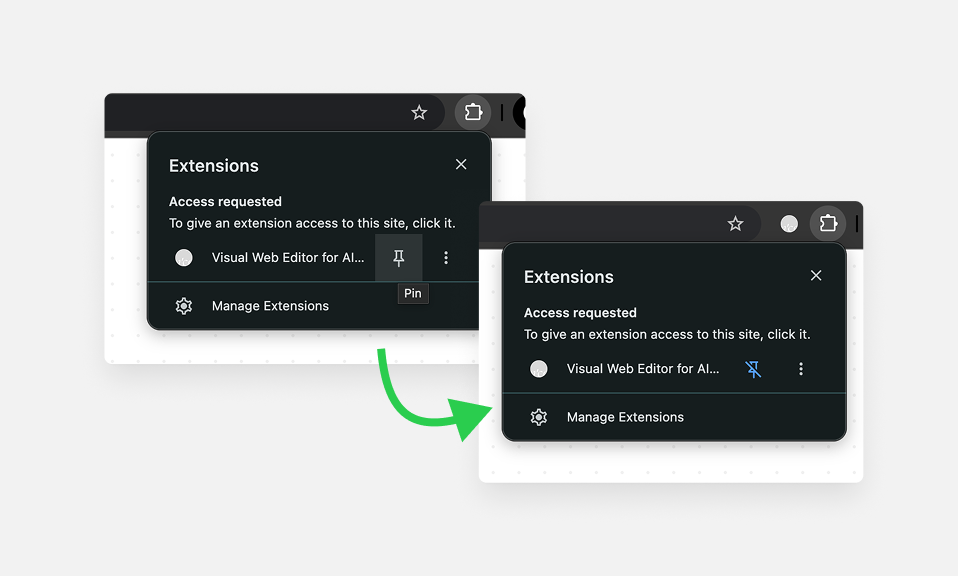
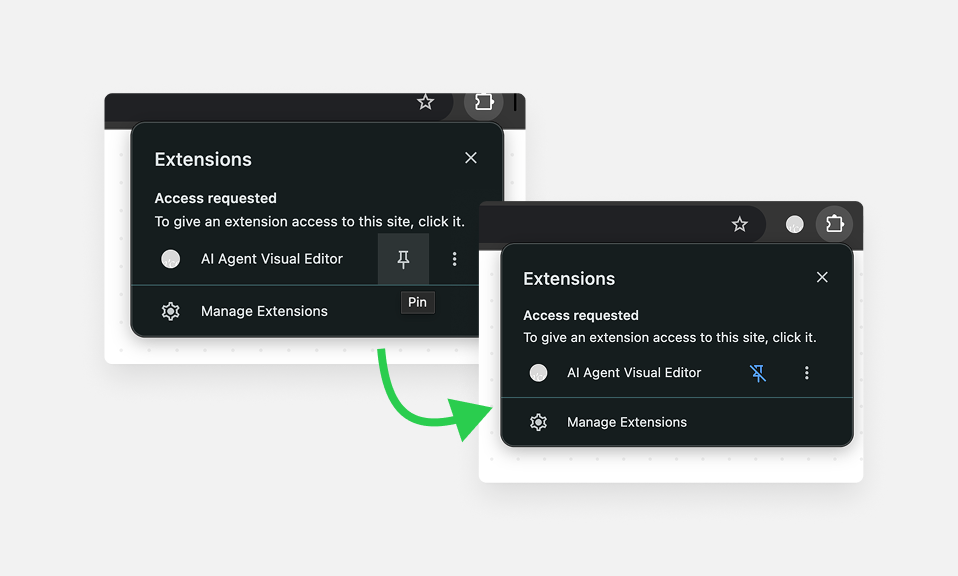
feat(guide): one block for step 2, trim step 3, add two screenshots
STEP 2 is now a single bordered block holding the agent picker, the prompt
and the copy button, with the 'Easiest way' sentence lifted out above it and
called out with a rule. Those three were reading as unrelated things stacked
up - a row of pills, a button, then a code sample - when they are three parts
of one action. The copy button also moves below the prompt: above, it offered
to copy something the reader had not seen yet.

STEP 3 was too wordy. I had replaced a single thin sentence with three
paragraphs, which overcorrected. Down to two short ones, keeping the point
that matters - without build-time tags the agent gets a selector and guesses,
and on repeated components it guesses wrong - and the reassurance that it is
a dev dependency only. Roughly 110 words to 55.

IMAGES. The step 1 pin screenshot is replaced: the old one still showed the
pre-rename product name in Chrome's extension list. Same filename, so the
step picks it up unchanged.

A new screenshot shows the popup toggling from Off to On with the toolbar
icon going grey to green. It appears twice, in 'Switch it on' and in 'Activate
the editor', because those two steps describe the same action from different
tabs - a reader arriving at either should see it. Both flattened to remove
the alpha channel, and stripped of EXIF.

Changed region(s): [[0.0908, 0.2188, 0.9081, 0.7812], [0.4238, 0.1562, 0.5752, 0.3438]]

diff --git a/examples/demo-app/src/components/SetupGuide.tsx b/examples/demo-app/src/components/SetupGuide.tsx
@@ -190,21 +190,43 @@ function ConnectYourAgent() {
         launches it, and it also serves the extension over WebSocket.
       </p>
 
-      {/* Pills on a tinted strip, not underlined text.
-          These were set as plain body text with a 1px underline on the active
-          one, which made a control the reader has to act on look like prose
-          they can skim past — and the whole step is wrong if the wrong agent
-          is selected, because the config below changes with it. A label, a
-          surface and a filled active state make it read as a choice. */}
+      {/* Call-out, outside the block below and above it.
+          This is the instruction; the block is the thing being instructed
+          about. Keeping it inside made it read as a caption on the code. */}
+      <p
+        style={{
+          marginTop: 'var(--space-5)',
+          paddingLeft: 'var(--space-4)',
+          borderLeft: '2px solid var(--color-ink)',
+          fontSize: 'var(--text-body-sm)',
+          color: 'var(--color-ink)',
+        }}
+      >
+        <strong style={{ fontWeight: 'var(--fw-book)' }}>Easiest way</strong> — let{' '}
+        {provider.name} set itself up. Pick your agent, then copy the prompt and paste it in.
+      </p>
+
+      {/* One block: picker, prompt, copy button.
+          These are three parts of a single action, and they were reading as
+          three unrelated things stacked up — a row of text links, a button,
+          then a code sample. Sharing one surface makes the sequence legible,
+          and the copy button sits under the text it copies rather than above
+          it, where it referred to something the reader had not seen yet. */}
       <div
         style={{
           marginTop: 'var(--space-4)',
-          padding: 'var(--space-4)',
-          background: 'var(--color-surface)',
           border: '1px solid var(--color-border)',
           borderRadius: 'var(--radius-sm, 4px)',
+          overflow: 'hidden',
         }}
       >
+        <div
+          style={{
+            padding: 'var(--space-4)',
+            background: 'var(--color-surface)',
+            borderBottom: '1px solid var(--color-border)',
+          }}
+        >
         <div
           id="agent-picker-label"
           style={{
@@ -255,14 +277,16 @@ function ConnectYourAgent() {
             </button>
           );
         })}
-      </div>
-      </div>
+        </div>
+        </div>
 
-      <p style={{ fontSize: 'var(--text-body-sm)', color: 'var(--color-secondary)' }}>
-        Easiest way — let {provider.name} set itself up. Copy this and paste it in:
-      </p>
-      <CopyPromptButton text={mcpPrompt(provider)} />
-      <Code>{mcpPrompt(provider)}</Code>
+        <div style={{ padding: 'var(--space-4)' }}>
+          <Code>{mcpPrompt(provider)}</Code>
+          <div style={{ marginTop: 'var(--space-4)' }}>
+            <CopyPromptButton text={mcpPrompt(provider)} />
+          </div>
+        </div>
+      </div>
 
       <p
         style={{
@@ -345,21 +369,14 @@ const STEPS: Step[] = [
       <>
         <p style={{ fontSize: 'var(--text-body-sm)', color: 'var(--color-secondary)' }}>
           <strong style={{ color: 'var(--color-ink)', fontWeight: 'var(--fw-book)' }}>
-            This is the step that connects your edits to your code.
+            This is what connects your edits to your code.
           </strong>{' '}
-          The plugin tags every element at build time with the file and line it came from. Without
-          those tags the editor still works — you can select, adjust and queue — but your agent
-          receives a CSS selector and has to go looking for what it belongs to. It will guess, and
-          on a codebase with repeated components it will sometimes guess wrong.
+          It tags elements at build time with their file and line, so a change arrives naming the
+          exact component. Without it your agent gets a CSS selector and has to guess — and on
+          repeated components it will sometimes guess wrong.
         </p>
         <p style={{ fontSize: 'var(--text-body-sm)', color: 'var(--color-secondary)' }}>
-          With the plugin, a change arrives naming the exact component and line, so the edit lands
-          where you meant it. Recommended rather than required: the editor runs without it, but
-          skipping it is the difference between an agent that knows what you clicked and one that
-          is inferring.
-        </p>
-        <p style={{ fontSize: 'var(--text-body-sm)', color: 'var(--color-secondary)' }}>
-          It is a dev dependency and does nothing in a production build. Install it in your project:
+          Dev dependency only; it does nothing in a production build.
         </p>
         <Code>{`npm install --save-dev @nco-studio/web-editor-plugin`}</Code>
         <p style={{ fontSize: 'var(--text-body-sm)', color: 'var(--color-secondary)' }}>
@@ -384,6 +401,20 @@ const STEPS: Step[] = [
           <code style={{ fontFamily: 'var(--font-mono)' }}>ws://localhost</code> — a connection that goes no further than your own machine.
           A banner appears only if the extension and server versions disagree.
         </p>
+        <figure style={{ margin: 'var(--space-4) 0 0' }}>
+          <img
+            src={`${import.meta.env.BASE_URL}images/web-editor-example-switch-on.png`}
+            alt="The extension popup before and after: Extension toggled from Off to On, and the toolbar icon turning from grey to green"
+            width={958}
+            height={576}
+            style={{
+              display: 'block',
+              width: '100%',
+              height: 'auto',
+              borderRadius: 'var(--radius-sm, 4px)',
+            }}
+          />
+        </figure>
       </>
     ),
   },

diff --git a/examples/demo-app/src/components/HowToUse.tsx b/examples/demo-app/src/components/HowToUse.tsx
@@ -52,11 +52,27 @@ re-check the queue before you go idle.`}</Code>
   {
     title: 'Activate the editor',
     body: (
-      <p style={{ fontSize: 'var(--text-body-sm)', color: 'var(--color-secondary)' }}>
-        On your localhost page, click the pinned icon and click <strong>Extension</strong> in the popup to
-        toggle it <strong>On</strong>. The editor toolbar appears — drag the grip to move it, collapse it to
-        browse the page normally, press <kbd style={{ fontFamily: 'var(--font-mono)', fontSize: 'var(--text-caption)', border: '1px solid var(--color-border)', padding: '0 4px' }}>ESC</kbd> to exit.
-      </p>
+      <>
+        <p style={{ fontSize: 'var(--text-body-sm)', color: 'var(--color-secondary)' }}>
+          On your localhost page, click the pinned icon and click <strong>Extension</strong> in the popup to
+          toggle it <strong>On</strong>. The editor toolbar appears — drag the grip to move it, collapse it to
+          browse the page normally, press <kbd style={{ fontFamily: 'var(--font-mono)', fontSize: 'var(--text-caption)', border: '1px solid var(--color-border)', padding: '0 4px' }}>ESC</kbd> to exit.
+        </p>
+        <figure style={{ margin: 'var(--space-4) 0 0' }}>
+          <img
+            src={`${import.meta.env.BASE_URL}images/web-editor-example-switch-on.png`}
+            alt="The extension popup before and after: Extension toggled from Off to On, and the toolbar icon turning from grey to green"
+            width={958}
+            height={576}
+            style={{
+              display: 'block',
+              width: '100%',
+              height: 'auto',
+              borderRadius: 'var(--radius-sm, 4px)',
+            }}
+          />
+        </figure>
+      </>
     ),
   },
   {
